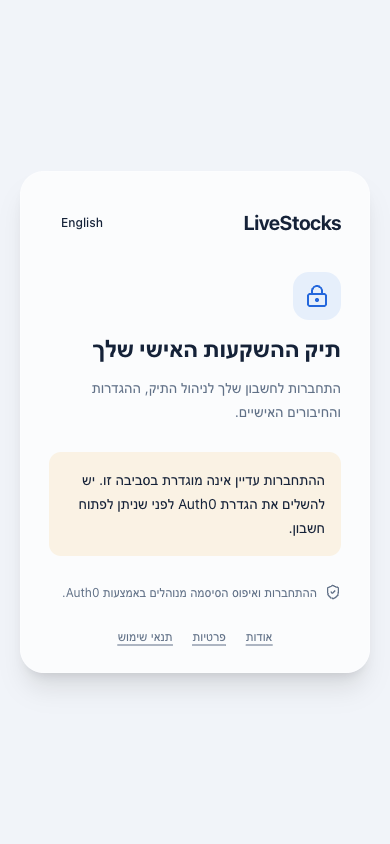
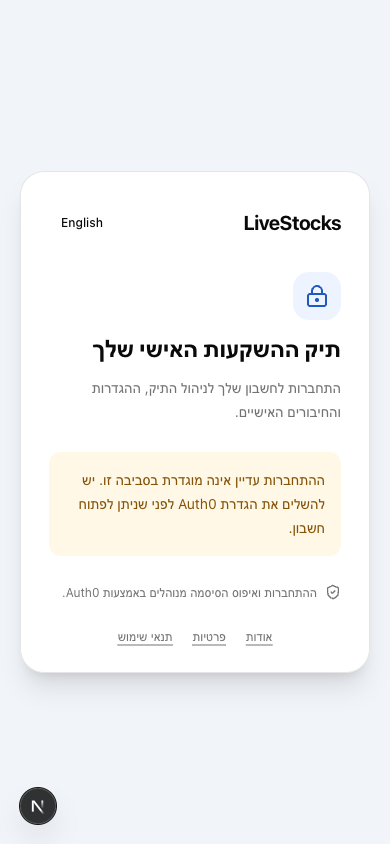
fix(auth): keep sign-in readable in dark mode

diff --git a/components/auth/sign-in.tsx b/components/auth/sign-in.tsx
@@ -12,27 +12,27 @@ export function SignIn({ configured, error, verificationRequired, callbackFailed
   const safeReturnTo = safeSignInReturnTo(returnTo);
   const loginUrl = `/auth/login?returnTo=${encodeURIComponent(safeReturnTo)}&ui_locales=${locale}`;
   return (
-    <main lang={locale} dir={he ? 'rtl' : 'ltr'} className="flex min-h-screen items-center justify-center bg-[var(--color-bg-primary)] p-5">
-      <section className="w-full max-w-md space-y-7 rounded-3xl border border-white/30 bg-white/70 p-7 shadow-xl backdrop-blur-xl dark:bg-slate-900/80">
+    <main lang={locale} dir={he ? 'rtl' : 'ltr'} className="flex min-h-screen items-center justify-center bg-[var(--color-page-bg)] p-5 text-foreground">
+      <section className="w-full max-w-md space-y-7 rounded-3xl border border-border bg-card p-7 text-card-foreground shadow-xl">
         <div className="flex items-center justify-between">
           <span className="text-xl font-bold tracking-tight">LiveStocks</span>
           <Button variant="ghost" size="sm" onClick={() => setLocale(he ? 'en' : 'he')}>{he ? 'English' : 'עברית'}</Button>
         </div>
         <div className="space-y-3">
-          <div className="inline-flex rounded-2xl bg-blue-500/10 p-3 text-blue-600"><LockKeyhole aria-hidden="true" /></div>
+          <div className="inline-flex rounded-2xl bg-[var(--accent-soft)] p-3 text-[var(--accent-text)]"><LockKeyhole aria-hidden="true" /></div>
           <h1 className="text-2xl font-semibold">{he ? 'תיק ההשקעות האישי שלך' : 'Your personal investment portfolio'}</h1>
-          <p className="text-sm leading-6 text-slate-500">{he ? 'התחברות לחשבון שלך לניהול התיק, ההגדרות והחיבורים האישיים.' : 'Sign in to manage your portfolio, settings, and personal connections.'}</p>
+          <p className="text-sm leading-6 text-muted-foreground">{he ? 'התחברות לחשבון שלך לניהול התיק, ההגדרות והחיבורים האישיים.' : 'Sign in to manage your portfolio, settings, and personal connections.'}</p>
         </div>
-        {error && <p role="alert" className="text-sm text-rose-600">{he ? 'לא ניתן לאמת את ההתחברות כרגע. אפשר לנסות לרענן או להתחבר מחדש.' : 'Unable to verify your session. Refresh or sign in again.'}</p>}
-        {callbackFailed && <p role="alert" className="rounded-xl bg-amber-500/10 p-4 text-sm leading-6">{he ? 'לא הצלחנו להשלים את ההתחברות. אם יצרת חשבון חדש, יש לבדוק את הדוא״ל ולאמת את הכתובת. לאחר מכן אפשר לנסות להתחבר שוב.' : 'We could not complete sign-in. If you just created an account, check your email and verify your address, then try signing in again.'}</p>}
-        {verificationRequired && <p role="alert" className="rounded-xl bg-amber-500/10 p-4 text-sm leading-6">{he ? 'לפני פתיחת התיק יש לאמת את כתובת הדוא״ל דרך ההודעה שנשלחה אליך, ולאחר מכן להתחבר מחדש.' : 'Before opening your portfolio, verify your email using the message sent to you, then sign in again.'}</p>}
+        {error && <p role="alert" className="text-sm text-[var(--color-red-600)]">{he ? 'לא ניתן לאמת את ההתחברות כרגע. אפשר לנסות לרענן או להתחבר מחדש.' : 'Unable to verify your session. Refresh or sign in again.'}</p>}
+        {callbackFailed && <p role="alert" className="rounded-xl bg-[var(--warning-soft)] p-4 text-sm leading-6 text-[var(--warning-text)]">{he ? 'לא הצלחנו להשלים את ההתחברות. אם יצרת חשבון חדש, יש לבדוק את הדוא״ל ולאמת את הכתובת. לאחר מכן אפשר לנסות להתחבר שוב.' : 'We could not complete sign-in. If you just created an account, check your email and verify your address, then try signing in again.'}</p>}
+        {verificationRequired && <p role="alert" className="rounded-xl bg-[var(--warning-soft)] p-4 text-sm leading-6 text-[var(--warning-text)]">{he ? 'לפני פתיחת התיק יש לאמת את כתובת הדוא״ל דרך ההודעה שנשלחה אליך, ולאחר מכן להתחבר מחדש.' : 'Before opening your portfolio, verify your email using the message sent to you, then sign in again.'}</p>}
         {configured ? <div className="space-y-3">
           <Button asChild className="w-full"><a href={loginUrl}>{he ? 'התחברות' : 'Sign in'}</a></Button>
           <Button asChild variant="outline" className="w-full"><a href={`${loginUrl}&screen_hint=signup`}><UserRound className="me-2 h-4 w-4" />{he ? 'יצירת חשבון' : 'Create account'}</a></Button>
-          <p className="text-xs leading-5 text-slate-500">{he ? 'שכחת את הסיסמה? במסך ההתחברות ניתן לבחור באיפוס סיסמה.' : 'Forgot your password? Choose password reset on the sign-in screen.'}</p>
-        </div> : <p role="status" className="rounded-xl bg-amber-500/10 p-4 text-sm leading-6">{he ? 'ההתחברות עדיין אינה מוגדרת בסביבה זו. יש להשלים את הגדרת Auth0 לפני שניתן לפתוח חשבון.' : 'Sign-in is not configured in this environment. Complete the Auth0 setup before creating an account.'}</p>}
-        <p className="flex items-center gap-2 text-xs text-slate-500"><ShieldCheck className="h-4 w-4 shrink-0" />{he ? 'ההתחברות ואיפוס הסיסמה מנוהלים באמצעות Auth0.' : 'Sign-in and password reset are managed by Auth0.'}</p>
-        <nav aria-label={he ? 'מידע על השירות' : 'Service information'} className="flex flex-wrap justify-center gap-5 text-xs text-slate-500">
+          <p className="text-xs leading-5 text-muted-foreground">{he ? 'שכחת את הסיסמה? במסך ההתחברות ניתן לבחור באיפוס סיסמה.' : 'Forgot your password? Choose password reset on the sign-in screen.'}</p>
+        </div> : <p role="status" className="rounded-xl bg-[var(--warning-soft)] p-4 text-sm leading-6 text-[var(--warning-text)]">{he ? 'ההתחברות עדיין אינה מוגדרת בסביבה זו. יש להשלים את הגדרת Auth0 לפני שניתן לפתוח חשבון.' : 'Sign-in is not configured in this environment. Complete the Auth0 setup before creating an account.'}</p>}
+        <p className="flex items-center gap-2 text-xs text-muted-foreground"><ShieldCheck className="h-4 w-4 shrink-0" />{he ? 'ההתחברות ואיפוס הסיסמה מנוהלים באמצעות Auth0.' : 'Sign-in and password reset are managed by Auth0.'}</p>
+        <nav aria-label={he ? 'מידע על השירות' : 'Service information'} className="flex flex-wrap justify-center gap-5 text-xs text-muted-foreground">
           <Link href={`/about?lang=${locale}`} className="underline underline-offset-4">{he ? 'אודות' : 'About'}</Link>
           <Link href={`/privacy?lang=${locale}`} className="underline underline-offset-4">{he ? 'פרטיות' : 'Privacy'}</Link>
           <Link href={`/terms?lang=${locale}`} className="underline underline-offset-4">{he ? 'תנאי שימוש' : 'Terms'}</Link>

diff --git a/README.md b/README.md
@@ -24,6 +24,8 @@
 | --- | --- |
 | ![מסך כניסה בעברית במחשב, ללא נתוני תיק](docs/screenshots/account-sign-in-desktop.png) | ![מסך כניסה בנייד, ללא נתוני תיק](docs/screenshots/account-sign-in-mobile.png) |
 
+מסך הכניסה משתמש בצבעי רקע וטקסט סמנטיים גם במצב כהה. נבדקו עברית ואנגלית במחשב ובנייד, ללא גלילה אופקית; [תצוגה כהה במחשב](docs/screenshots/account-sign-in-dark-desktop.png) ו־[תצוגה כהה באנגלית בנייד](docs/screenshots/account-sign-in-dark-english-mobile.png) מציגות סביבה מקומית ללא חשבון או נתוני תיק.
+
 דפי `/about`, `/privacy` ו־`/terms` הוכנו בעברית ובאנגלית, עם קישורים ממסך הכניסה. הם מחזירים 503 עד להגדרת שם מפעיל וכתובת תמיכה ציבורית שאושרו במפורש (`PUBLISHER_NAME`, `PUBLIC_SUPPORT_EMAIL`). הדפים אינם טוענים מידע מהתיק. [טיוטת הפרסום וההחלטות הנדרשות](docs/PUBLIC_POLICY_DRAFT.md) כוללת תצוגות מקומיות עם פרטי תמיכה סינתטיים בלבד.
 
 ## עיצוב Liquid Glass
